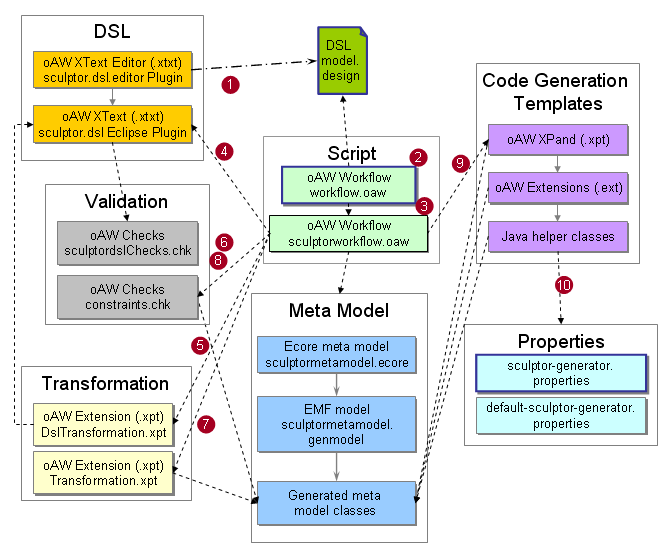
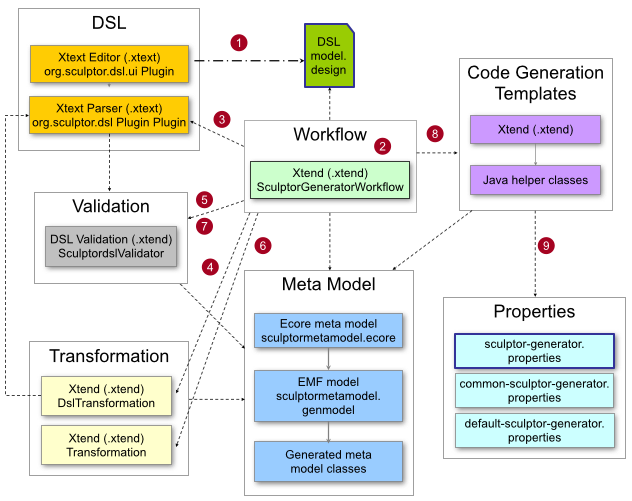
updates internal design diagram and description to Sculptor version 3

diff --git a/documentation/developers-guide.md b/documentation/developers-guide.md
@@ -24,11 +24,9 @@ Some changes are staightforward and some requires more in depth understanding of
 
 1. The developer is using the DSL Editor plugin to edit the application specific `model.btdesign`, i.e. the source for the concrete model that is the input to the code generation process. Constraints of the DSL is validated while editing.
 
-1. When generating code the application specific `Workflow.mwe2` is executed. It doesn't contain much.
+1. When generating code `SculptorGeneratorWorkflow.run()` is executed. It defines the flow of the code generation process.
 
-1. It invokes the `Sculptorworkflow.mwe2` which defines the flow of the code generation process.
-
-1. It starts with parsing the `model.btdesign` file using the XText parser. Constraints of the DSL are checked.
+1. It starts with parsing the `model.btdesign` file using the Xtext DSL parser. Constraints of the DSL are validated.
 
 1. The DSL model is transformed into a model of the type defined by the `sculptormetamodel.ecore` meta model.
 
@@ -38,9 +36,9 @@ Some changes are staightforward and some requires more in depth understanding of
 
 1. Constraint validation again.
 
-1. Now the actual generation of Java code and configuration files begin. It is done with code generation templates written in [Xtends template expressions](http://www.eclipse.org/xtend/documentation.html#templates). The templates extract values from the model and uses [Xtend extension methods](http://www.eclipse.org/xtend/documentation.html#extensionMethods) and Java helper classes.
+1. Now the actual generation of Java code and configuration files begin. It is done with code generation templates written in [Xtends template expressions](http://www.eclipse.org/xtend/documentation.html#templates). The templates extract values from the model and use [Xtend extension methods](http://www.eclipse.org/xtend/documentation.html#extensionMethods) and Java helper classes.
 
-1. Properties of technical nature, which don't belong in the DSL or meta model, are used by the templates and the helpers.
+1. [Properties](#generator-properties) of technical nature, which don't belong in the DSL or meta model, are used by the templates and the helpers.
 
 
 ## Generator Properties
